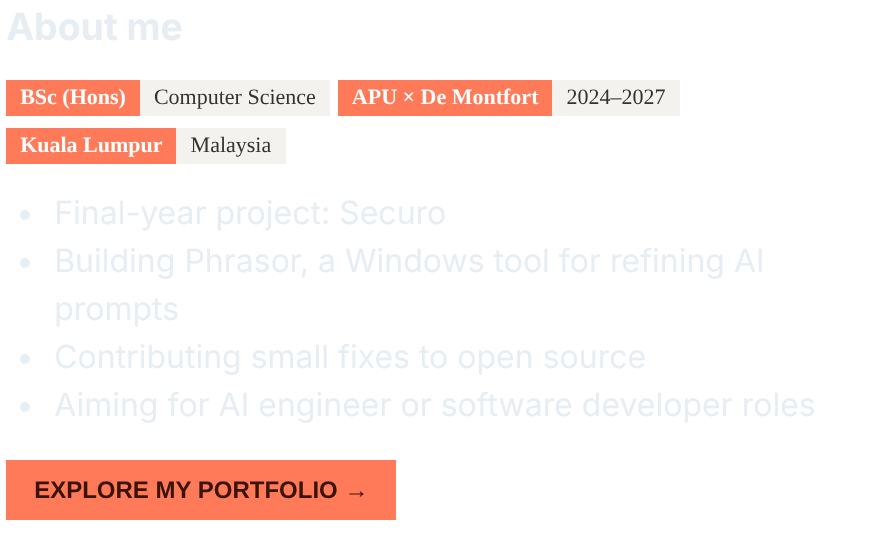
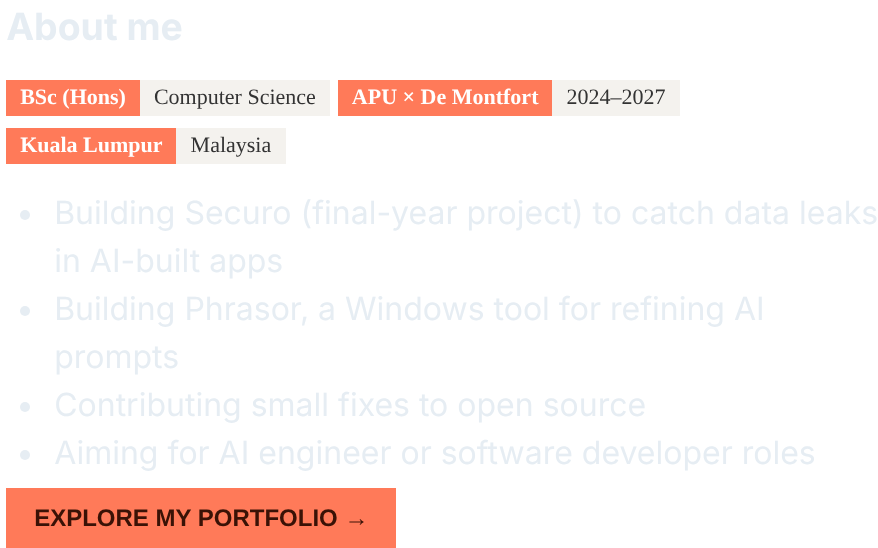
Say what Securo does in the About me section

diff --git a/README.md b/README.md
@@ -13,7 +13,7 @@
 </p>
 
 <p align="center">
-  <a href="https://maneet7805.github.io"><img width="47.5%" align="top" src="assets/portfolio-preview.png" alt="Preview of my portfolio site, maneet7805.github.io. Click to open it." /></a><a href="https://maneet7805.github.io"><picture><source media="(prefers-color-scheme: dark)" srcset="assets/about-dark.png" /><img width="51.5%" align="top" src="assets/about-light.png" alt="About me: BSc (Hons) Computer Science, APU × De Montfort, 2024–2027, Kuala Lumpur, Malaysia. Final-year project: Securo. Building Phrasor, a Windows tool for refining AI prompts. Contributing small fixes to open source. Aiming for AI engineer or software developer roles. Explore my portfolio." /></picture></a>
+  <a href="https://maneet7805.github.io"><img width="47.5%" align="top" src="assets/portfolio-preview.png" alt="Preview of my portfolio site, maneet7805.github.io. Click to open it." /></a><a href="https://maneet7805.github.io"><picture><source media="(prefers-color-scheme: dark)" srcset="assets/about-dark.png" /><img width="51.5%" align="top" src="assets/about-light.png" alt="About me: BSc (Hons) Computer Science, APU × De Montfort, 2024–2027, Kuala Lumpur, Malaysia. Building Securo (final-year project) to catch data leaks in AI-built apps. Building Phrasor, a Windows tool for refining AI prompts. Contributing small fixes to open source. Aiming for AI engineer or software developer roles. Explore my portfolio." /></picture></a>
 </p>
 
 
